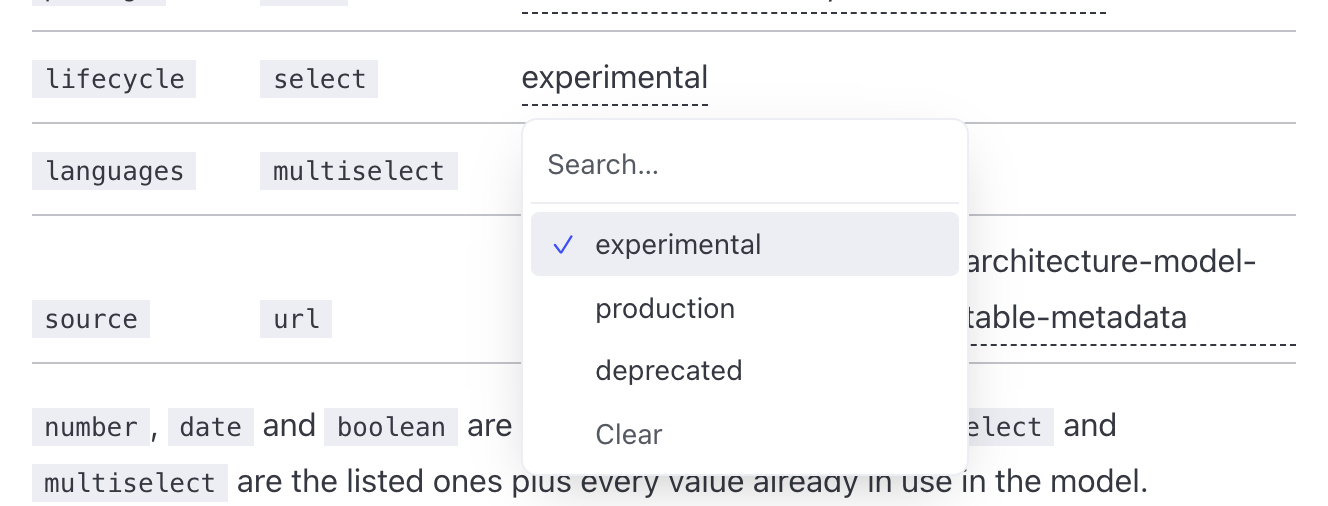
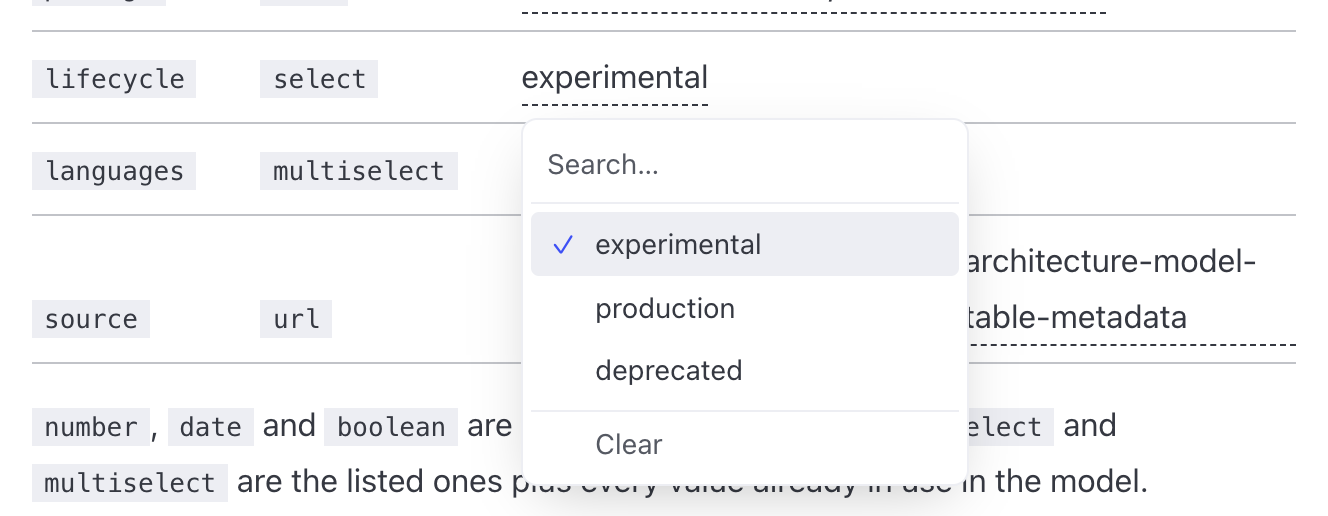
Address review of the Radix editors
Only text accepts new values; a multiselect is limited to its options. Number, date and url save on a click outside as well as Enter. Clear is a separate button, so search can't pick it. Choosing the current value doesn't write the model. A failed save goes back to the previous value and says so. The trigger's label includes the value. The addon adds Astro's React integration itself instead of failing without it, and the build gets an empty stand-in for the editor, so neither Radix, cmdk nor the editor's CSS reach the built site; the CSS is a plain import again.

diff --git a/addons/editable-metadata/Editor.jsx b/addons/editable-metadata/Editor.jsx
@@ -2,16 +2,17 @@ import * as Popover from '@radix-ui/react-popover'
 import * as Switch from '@radix-ui/react-switch'
 import { Command } from 'cmdk'
 import { useRef, useState } from 'react'
-import css from './editor.css?inline'
+import './editor.css'
 
-const save = async (fqn, key, value) => {
+const post = async (fqn, key, value) => {
   const response = await fetch('/__model/metadata', { method: 'POST', body: JSON.stringify({ fqn, key, value }) })
   if (!response.ok) throw new Error(await response.text())
 }
 
+const listOf = (value) => [value].flat().filter(Boolean)
 const same = (a, b) => a.length === b.length && a.every((value) => b.includes(value))
 
-function Options({ type, values, options, chosen, onChoose, onSave }) {
+function Options({ type, options, chosen, onChoose, onClear }) {
   const [query, setQuery] = useState('')
   const typed = query.trim()
 
@@ -21,7 +22,7 @@ function Options({ type, values, options, chosen, onChoose, onSave }) {
         className="em-input"
         value={query}
         onValueChange={setQuery}
-        placeholder={type === 'select' ? 'Search…' : 'Search or add a value…'}
+        placeholder={type === 'text' ? 'Search or add a value…' : 'Search…'}
       />
       <Command.List className="em-list">
         <Command.Empty className="em-empty">No options</Command.Empty>
@@ -31,37 +32,20 @@ function Options({ type, values, options, chosen, onChoose, onSave }) {
             {option}
           </Command.Item>
         ))}
-        {type !== 'select' && typed && !options.includes(typed) && (
+        {type === 'text' && typed && !options.includes(typed) && (
           <Command.Item value={typed} className="em-item" onSelect={() => (setQuery(''), onChoose(typed))}>
             <span className="em-check">+</span>
             Add “{typed}”
           </Command.Item>
         )}
-        {type !== 'multiselect' && values.length > 0 && (
-          <Command.Item value="Clear" className="em-item em-muted" onSelect={() => onSave('')}>
-            <span className="em-check" />
-            Clear
-          </Command.Item>
-        )}
       </Command.List>
+      {type !== 'multiselect' && chosen.length > 0 && (
+        <button type="button" className="em-item em-muted em-clear" onClick={onClear}>
+          <span className="em-check" />
+          Clear
+        </button>
+      )}
     </Command>
-  )
-}
-
-function Field({ type, values, onSave }) {
-  const [value, setValue] = useState(values[0] ?? '')
-  return (
-    <div className="em-command">
-      <input
-        className="em-input"
-        type={type}
-        value={value}
-        onChange={(event) => setValue(event.target.value)}
-        onKeyDown={(event) => event.key === 'Enter' && (event.preventDefault(), onSave(value.trim()))}
-        autoFocus
-      />
-      <p className="em-hint">Enter saves. An empty value removes the key.</p>
-    </div>
   )
 }
 
@@ -69,57 +53,68 @@ export default function Editor({ fqn, name, type, values: initial, options: list
   const [values, setValues] = useState(initial)
   const [open, setOpen] = useState(false)
   const [draft, setDraft] = useState(initial)
+  const [error, setError] = useState('')
   const cancelled = useRef(false)
   const options = [...new Set([...listed, ...draft])]
+  const listedType = ['select', 'multiselect', 'text'].includes(type)
 
-  const onSave = (value) => {
-    setValues([value].flat().filter(Boolean))
+  const save = (value) => {
     setOpen(false)
-    save(fqn, name, value).catch((error) => (setValues(initial), console.error(error)))
+    const next = listOf(value)
+    if (same(next, values)) return
+    const previous = values
+    setValues(next)
+    setError('')
+    post(fqn, name, value).catch((failure) => {
+      setValues(previous)
+      setError(failure.message)
+    })
   }
 
-  // A multiselect collects its changes and saves once on close, because each save reloads the page.
+  // A multiselect and the plain inputs keep a draft and save it on close, unless Escape closed them.
+  // A multiselect can't save per toggle because every save reloads the page.
   const onOpenChange = (next) => {
     if (next) {
       cancelled.current = false
       setDraft(values)
-    } else if (type === 'multiselect' && !cancelled.current && !same(draft, values)) {
-      return onSave(draft)
+      return setOpen(true)
     }
-    setOpen(next)
+    if (!cancelled.current && (type === 'multiselect' || !listedType)) return save(type === 'multiselect' ? draft : draft[0] ?? '')
+    setOpen(false)
   }
   const onChoose = (option) => {
-    if (type !== 'multiselect') return onSave(option)
+    if (type !== 'multiselect') return save(option)
     setDraft(draft.includes(option) ? draft.filter((value) => value !== option) : [...draft, option])
   }
 
-  const style = (
-    <style href="@architecture-model/editable-metadata" precedence="default">
-      {css}
-    </style>
+  const label = `${name}: ${values.join(', ') || 'not set'}`
+  const problem = error && (
+    <span className="em-error" role="alert" title={error}>
+      {' '}
+      not saved
+    </span>
   )
 
   if (type === 'boolean') {
     return (
       <>
-        {style}
         <Switch.Root
           className="em-switch"
           checked={values[0] === 'true'}
-          onCheckedChange={(checked) => onSave(String(checked))}
+          onCheckedChange={(checked) => save(String(checked))}
           aria-label={name}
         >
           <Switch.Thumb className="em-thumb" />
         </Switch.Root>
+        {problem}
       </>
     )
   }
 
   return (
     <>
-      {style}
       <Popover.Root open={open} onOpenChange={onOpenChange}>
-        <Popover.Trigger className="em-value" aria-label={`Edit ${name}`}>
+        <Popover.Trigger className="em-value" aria-label={`Edit ${label}`}>
           {values.join(', ') || '—'}
         </Popover.Trigger>
         <Popover.Portal>
@@ -129,14 +124,25 @@ export default function Editor({ fqn, name, type, values: initial, options: list
             sideOffset={6}
             onEscapeKeyDown={() => (cancelled.current = true)}
           >
-            {['select', 'multiselect', 'text'].includes(type) ? (
-              <Options type={type} values={values} options={options} chosen={draft} onChoose={onChoose} onSave={onSave} />
+            {listedType ? (
+              <Options type={type} options={options} chosen={draft} onChoose={onChoose} onClear={() => save('')} />
             ) : (
-              <Field type={type} values={values} onSave={onSave} />
+              <div className="em-command">
+                <input
+                  className="em-input"
+                  type={type}
+                  value={draft[0] ?? ''}
+                  onChange={(event) => setDraft([event.target.value])}
+                  onKeyDown={(event) => event.key === 'Enter' && (event.preventDefault(), save(draft[0]?.trim() ?? ''))}
+                  autoFocus
+                />
+                <p className="em-hint">Enter or a click outside saves. Escape cancels. Empty removes the key.</p>
+              </div>
             )}
           </Popover.Content>
         </Popover.Portal>
       </Popover.Root>
+      {problem}
     </>
   )
 }

diff --git a/addons/editable-metadata/index.js b/addons/editable-metadata/index.js
@@ -1,21 +1,34 @@
-import { resolve } from 'node:path'
+import react from '@astrojs/react'
+import { dirname, resolve } from 'node:path'
 import { fileURLToPath } from 'node:url'
 import { editor } from './editor.js'
 
 const name = '@architecture-model/editable-metadata'
 const virtual = 'virtual:editable-metadata/config'
+const here = dirname(fileURLToPath(import.meta.url))
+const editorFile = resolve(here, 'Editor.jsx')
+
+// The editor only runs in the dev server, so the build gets an empty component instead of Radix and cmdk.
+const withoutEditor = {
+  name: 'editable-metadata-no-editor',
+  enforce: 'pre',
+  resolveId: (id, importer) => {
+    const path = id.split('?')[0]
+    const absolute = path.startsWith('.') && importer ? resolve(dirname(importer.split('?')[0]), path) : path
+    return absolute === editorFile ? resolve(here, 'NoEditor.jsx') : undefined
+  },
+}
 
 export default function editableMetadata({ model = 'model', fields = 'model/metadata.json' } = {}) {
   return {
     name,
     hooks: {
-      'astro:config:setup': ({ config, updateConfig }) => {
-        if (!config.integrations.some((integration) => integration.name === '@astrojs/react')) {
-          throw new Error(`${name} needs React in the site. Add it with: npx astro add react`)
-        }
+      'astro:config:setup': ({ config, command, updateConfig }) => {
         const root = fileURLToPath(config.root)
         const paths = { modelDir: resolve(root, model), fieldsFile: resolve(root, fields) }
+        const hasReact = config.integrations.some((integration) => integration.name === '@astrojs/react')
         updateConfig({
+          integrations: hasReact ? [] : [react()],
           vite: {
             ssr: { noExternal: [name] },
             plugins: [
@@ -25,6 +38,7 @@ export default function editableMetadata({ model = 'model', fields = 'model/meta
                 load: (id) => (id === `\0${virtual}` ? `export default ${JSON.stringify(paths)}` : undefined),
               },
               editor(paths),
+              command === 'build' && withoutEditor,
             ],
           },
         })

diff --git a/addons/editable-metadata/editor.css b/addons/editable-metadata/editor.css
@@ -62,8 +62,25 @@
   cursor: pointer;
   user-select: none;
 }
-.em-item[data-selected='true'] {
+.em-item[data-selected='true'],
+.em-clear:hover,
+.em-clear:focus-visible {
   background: var(--em-hover);
+}
+.em-clear {
+  all: unset;
+  display: flex;
+  align-items: center;
+  gap: 0.5rem;
+  margin-top: 0.25rem;
+  padding: 0.375rem 0.5rem;
+  border-top: 1px solid var(--em-border);
+  border-radius: 0 0 0.25rem 0.25rem;
+  cursor: pointer;
+}
+.em-error {
+  color: var(--sl-color-red, #dc2626);
+  font-size: 0.85em;
 }
 .em-muted,
 .em-empty,

diff --git a/addons/editable-metadata/NoEditor.jsx b/addons/editable-metadata/NoEditor.jsx
@@ -1,0 +1,3 @@
+export default function NoEditor() {
+  return null
+}

diff --git a/addons/editable-metadata/README.md b/addons/editable-metadata/README.md
@@ -13,7 +13,7 @@ npx astro add @architecture-model/editable-metadata
 or by hand:
 
 ```bash
-npm install @architecture-model/editable-metadata
+npm install @architecture-model/editable-metadata @astrojs/react react react-dom
 ```
 
 ```js
@@ -47,9 +47,9 @@ Owner: <Metadata of="system" name="owner" />
 
 `of` is the element's fully qualified name, `name` is the metadata key. Keep the component on the same line as its label.
 
-Run `npm run dev` and click the value to edit it. A select saves the option you choose, a multiselect saves when its list closes, and text, number, date and url fields save with Enter. Escape closes without saving, and Clear or an empty value removes the key from the model.
+Run `npm run dev` and click the value to edit it. A select saves the option you choose, text saves the value you choose or add, and a multiselect, number, date or url saves when its editor closes. Escape closes without saving, and Clear or an empty value removes the key from the model.
 
-The editors are React components built on [Radix](https://www.radix-ui.com/) and [cmdk](https://cmdk.paco.me/), so the site needs Astro's React integration (`npx astro add react`). Repositories made with `npm create @architecture-model` have it. The built site doesn't load them.
+The editors are React components built on [Radix](https://www.radix-ui.com/) and [cmdk](https://cmdk.paco.me/). The addon adds Astro's React integration if the site doesn't have it, and the built site contains none of the editor code.
 
 ## Field types
 

diff --git a/.changeset/radix-editors.md b/.changeset/radix-editors.md
@@ -2,4 +2,4 @@
 "@architecture-model/editable-metadata": minor
 ---
 
-The dev-server editors are now searchable popovers built on Radix and cmdk, styled with the site's theme, with a switch for booleans. They need Astro's React integration, which repositories made with `npm create @architecture-model` already have.
+The dev-server editors are now searchable popovers built on Radix and cmdk, styled with the site's theme, with a switch for booleans. The addon adds Astro's React integration when the site doesn't have it, and the built site contains none of the editor code.
